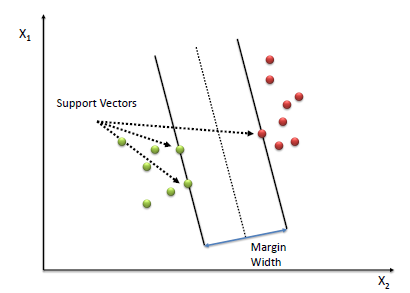
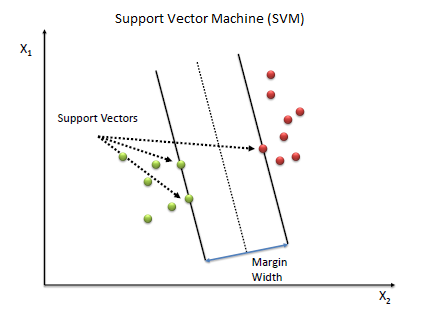
Update images

Changed region(s): [[0.0293, 0.0307, 0.9659, 0.9829], [0.2634, 0.0307, 0.7024, 0.0922], [0.322, 0.6758, 0.3805, 0.7372]]

diff --git a/README.md b/README.md
@@ -10,9 +10,25 @@ Visualization codes are contained in [`visuals.py`](https://github.com/adsasmita
 
 ## Overview
 
-Suppose that we were tasked to identify donors for a charity. The organization decided that potential donors are individuals that have yearly income of more than $50,000. We agreed to approach this task by employing several supervised algorithms to accurately model individuals' income using data collected from the 1994 U.S. Census. We will then choose the best candidate algorithm from preliminary results and further optimize it to best model the data.
+Suppose that we were tasked to identify donors for a charity. The organization decided that potential donors are individuals that have yearly income of more than $50,000. We agreed to approach this task by employing several supervised algorithms to accurately model individuals' income using data collected from the [1994 U.S. Census](https://archive.ics.uci.edu/ml/datasets/Census+Income). We will then choose the best candidate algorithm from preliminary results and further optimize it to best model the data.
 
 Understanding an individual's income can help a non-profit better understand how large of a donation to request, or whether or not they should reach out to begin with. While it can be difficult to determine an individual's general income bracket directly from public sources, we can (as we will see) infer this value from other publically available features.
+
+## Supervised Algorithms Used
+
+The main code implemented three supervised learning algorithms in [Scikit-learn](http://scikit-learn.org/stable/), evaluated the best algorithm that fit the data, then optimized the classifier using parameter optimization [GridSearchCV](http://scikit-learn.org/0.17/modules/generated/sklearn.grid_search.GridSearchCV.html)
+
+The three algorithms considered are: [Gaussian Naive-Bayes](https://en.wikipedia.org/wiki/Naive_Bayes_classifier), [Support Vector Machine](https://en.wikipedia.org/wiki/Support_vector_machine), and [Decision Trees](https://en.wikipedia.org/wiki/Decision_tree).
+
+![title](img/gnb1.png)
+
+![title](img/gnb2.png)
+
+![title](img/svm1.png)
+
+![title](img/svm2.png)
+
+![title](img/dt1.png)
 
 ## Data
 
